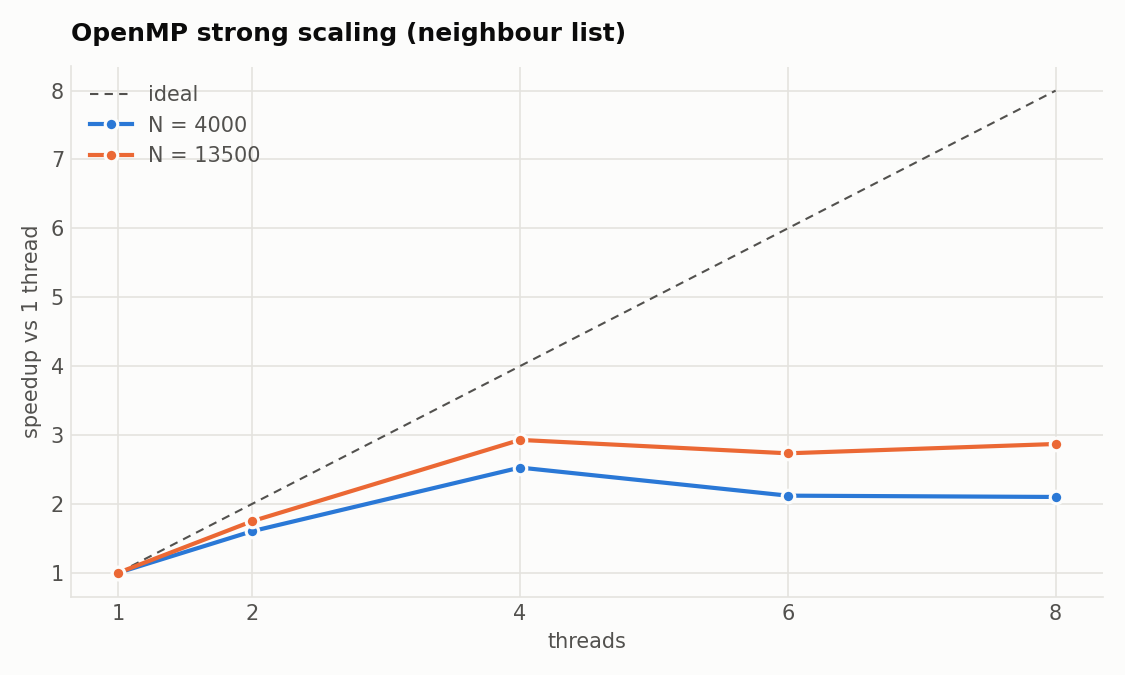
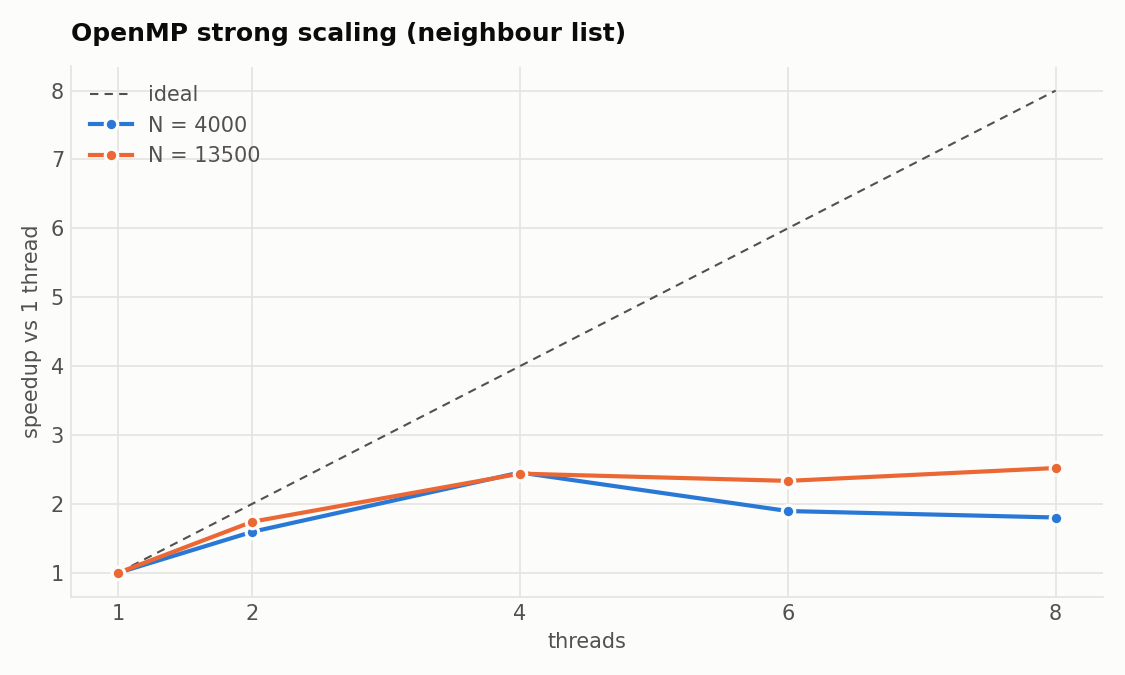
feat: update force computation documentation and add inverse box length getter

Changed region(s): [[0.1867, 0.6222, 0.9644, 0.8089], [0.1556, 0.8089, 0.1867, 0.84]]

diff --git a/include/Forcefield.hpp b/include/Forcefield.hpp
@@ -11,8 +11,8 @@ public:
     // Compute the forces on every particle by checking all pairs (O(N^2)) and return the total potential energy
     double computeForces(System& system) const;
 
-    // Compute the forces using only the pairs in the neighbour list (O(N)), in parallel with OpenMP,
-    // and return the total potential energy
+    // Compute the forces using only the pairs in the neighbour list (O(N)), in parallel with OpenMP and
+    // with the pair maths vectorised (SIMD), and return the total potential energy
     double computeForces(System& system, const NeighbourList& neighbourList) const;
 
     double getCutOff() const {

diff --git a/include/System.hpp b/include/System.hpp
@@ -23,6 +23,10 @@ public:
         return boxLength_;
     };
 
+    double getInverseBoxLength() const {
+        return inverseBoxLength_;
+    };
+
 
     // Using PBC, find the minimum image distance between two particles.
     // Defined in the header so it inlines into the hot pair loops in other source files
